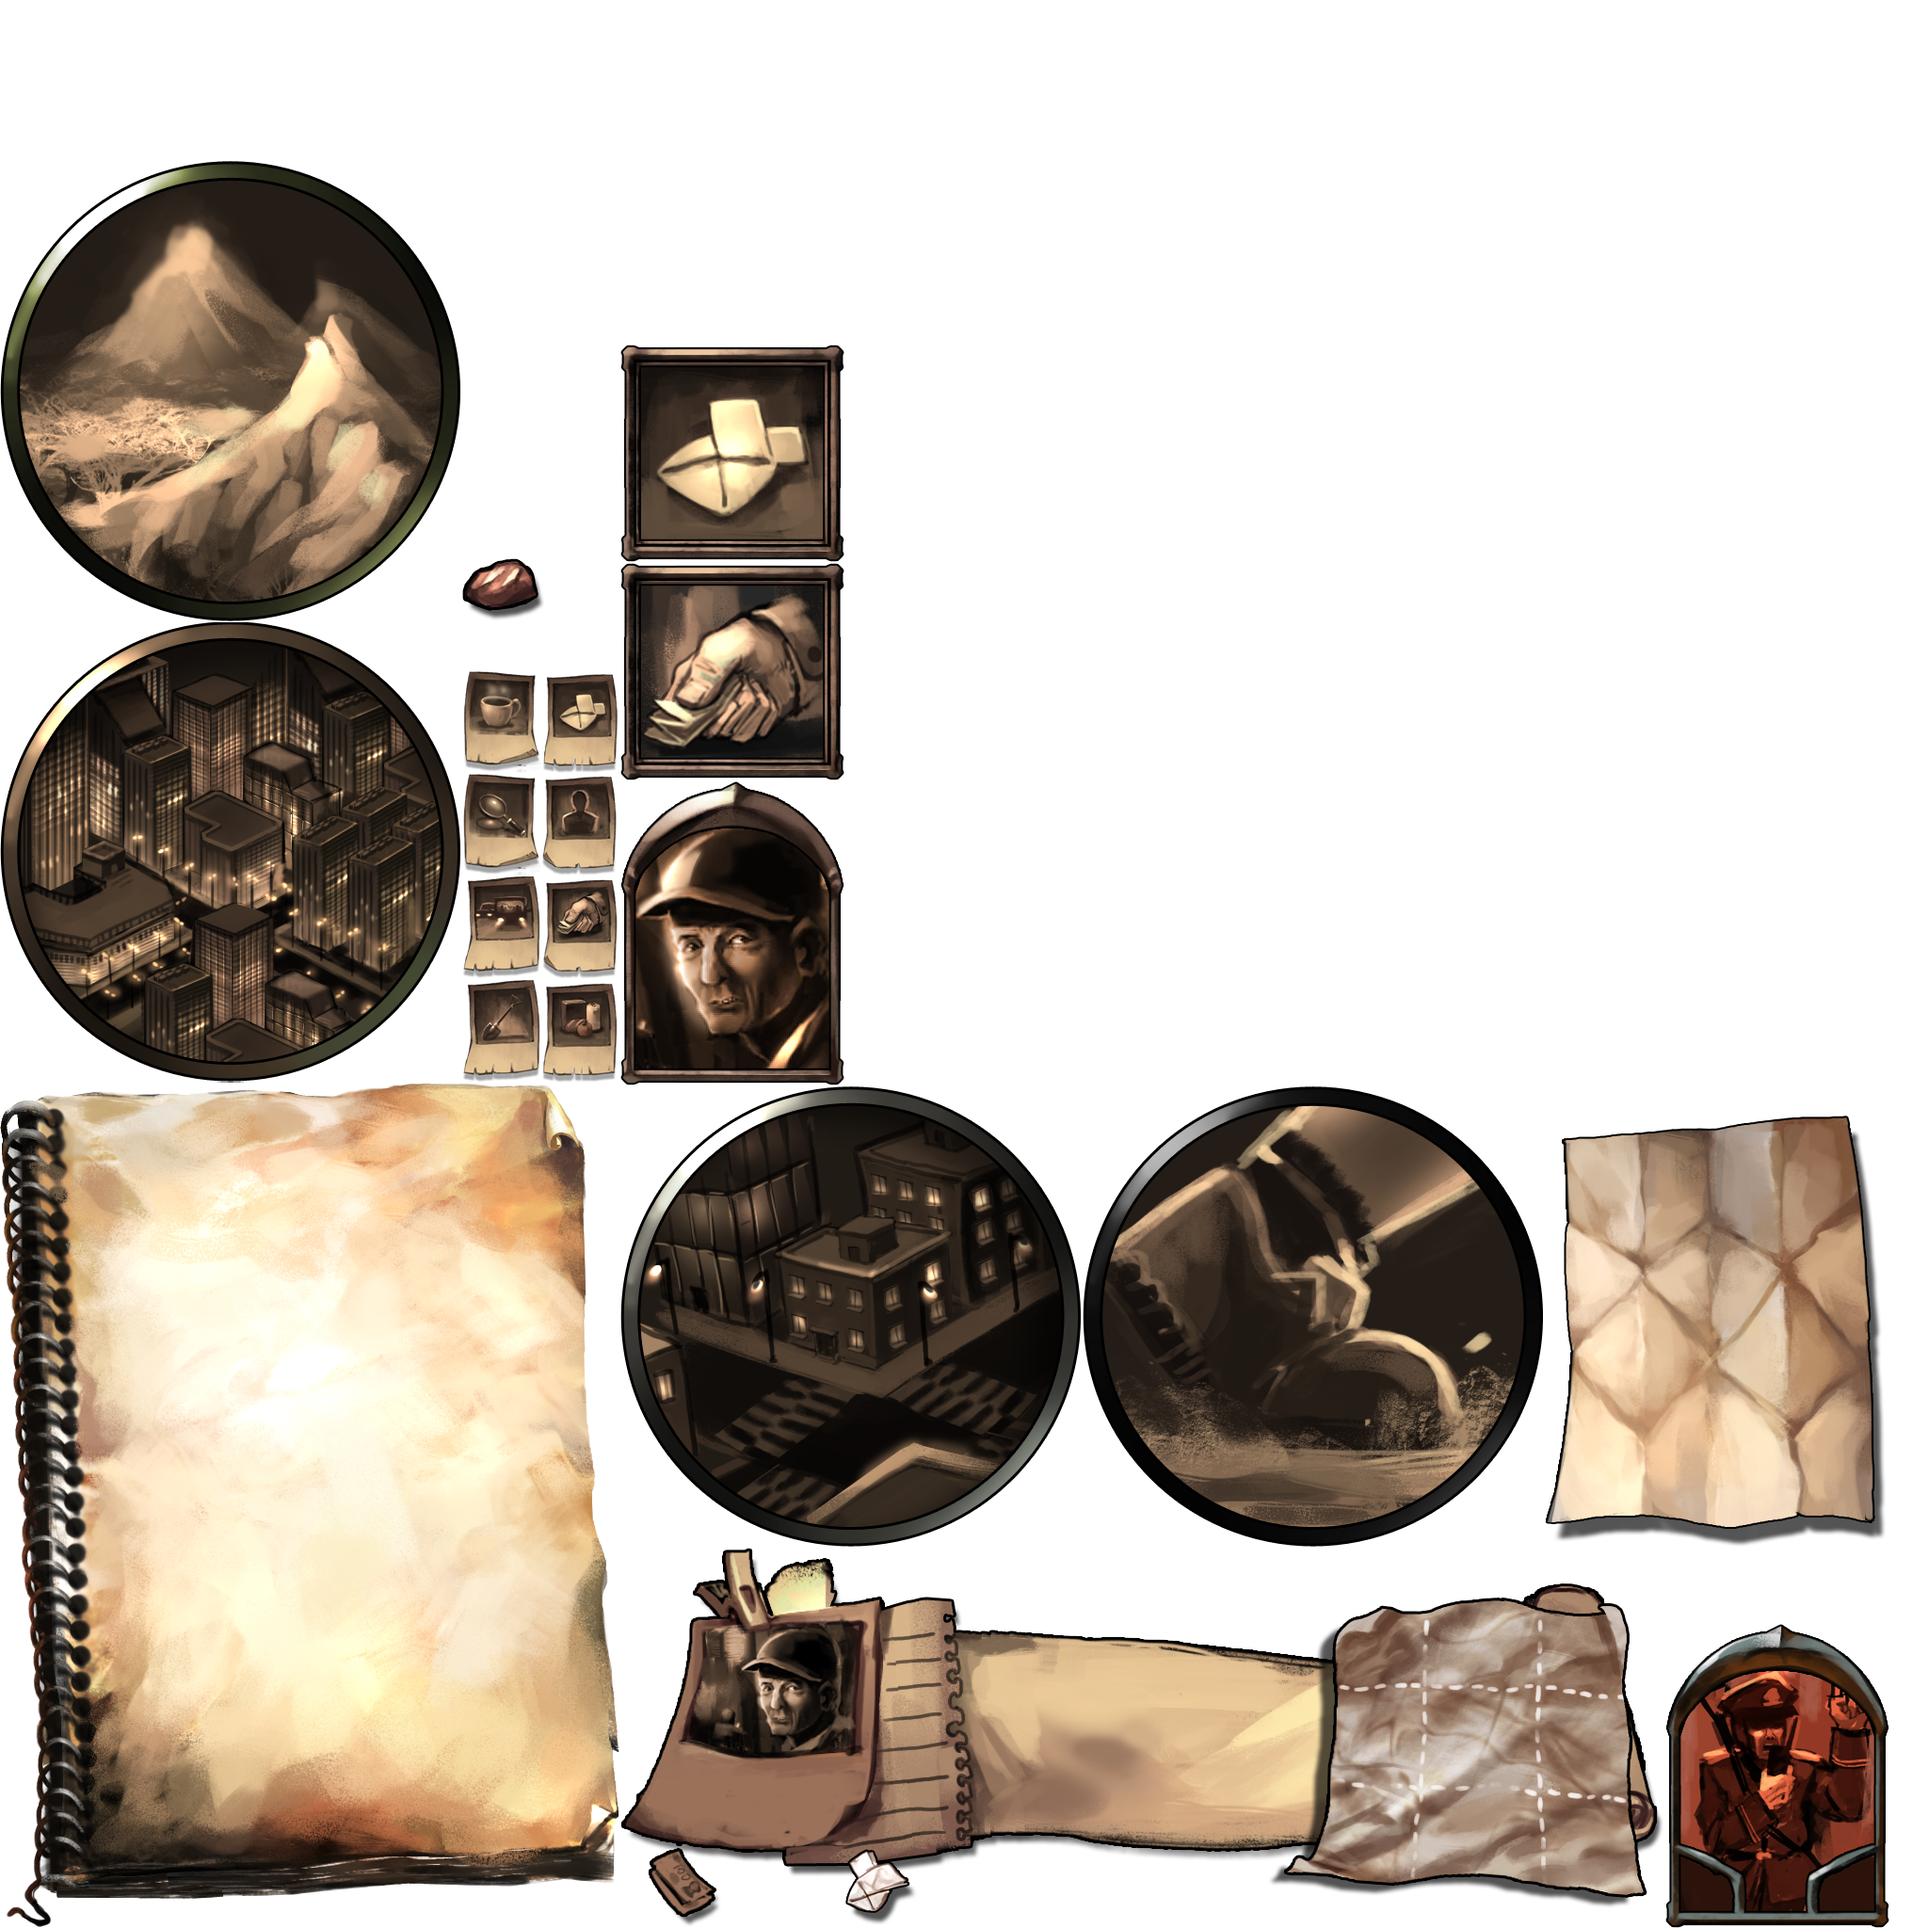
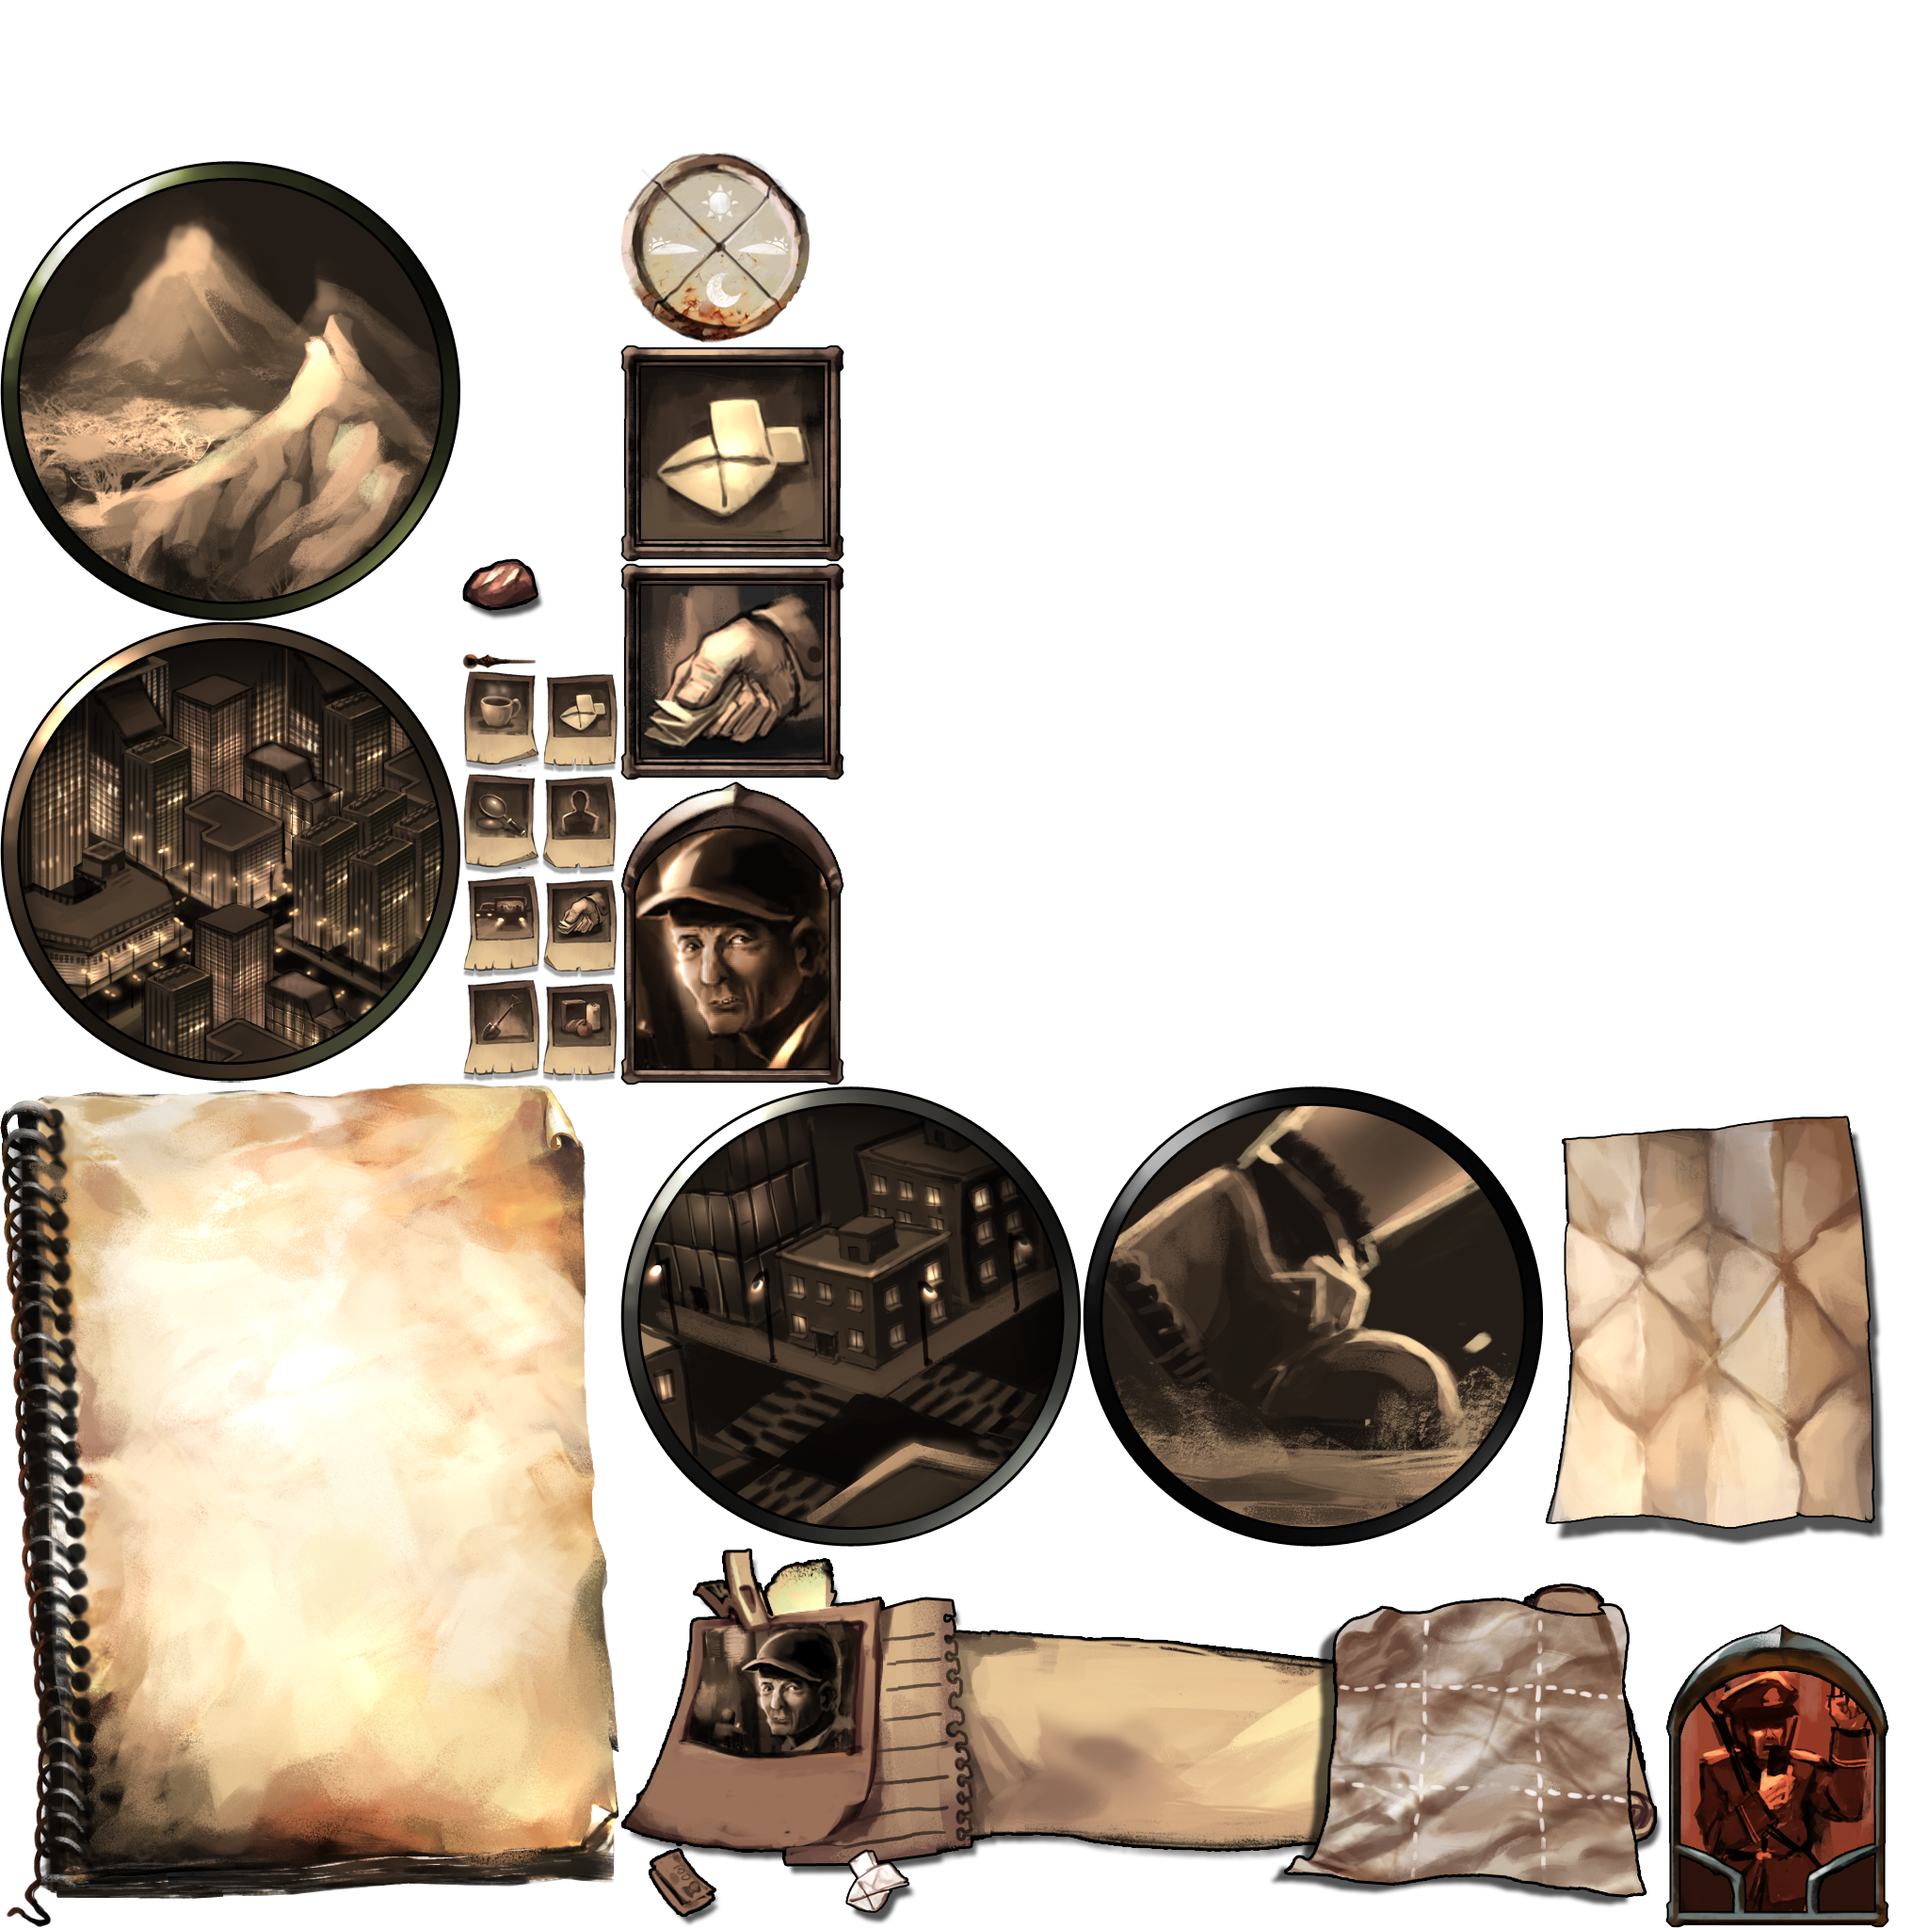
- 시계 아날로그화 - light용 스프라이트

Changed region(s): [[0.3125, 0.0625, 0.4375, 0.1875]]

diff --git a/Assets/ToBeFree/Scripts/UI/UITimeTable.cs b/Assets/ToBeFree/Scripts/UI/UITimeTable.cs
@@ -8,17 +8,30 @@ namespace ToBeFree
 	{
 		public UILabel dayLabel;
 		public UILabel hourLabel;
+		public Transform hourhand;
+		public UISprite lightSprite;
 
-		// Use this for initialization
+		private float angle;
+		
 		void Start()
 		{
 			TimeTable.Instance.NotifyEveryHour += Instance_NotifyEveryHour;
 			TimeTable.Instance.NotifyEveryday += OnDayChange;
+			angle = hourhand.localRotation.eulerAngles.z;
 		}
 
 		private void Instance_NotifyEveryHour()
 		{
-			hourLabel.text = TimeTable.Instance.Hour.ToString() + ":00";
+			int hour = TimeTable.Instance.Hour;
+			hourLabel.text = hour.ToString() + ":00";
+
+			if (6 <= hour && hour < 18)
+				lightSprite.alpha = 0;
+			else
+				lightSprite.alpha = 0.5f;
+
+			hour -= 6;
+			hourhand.localRotation = Quaternion.AngleAxis(angle + hour*-15f, Vector3.forward);
 		}
 
 		private void OnDayChange()
